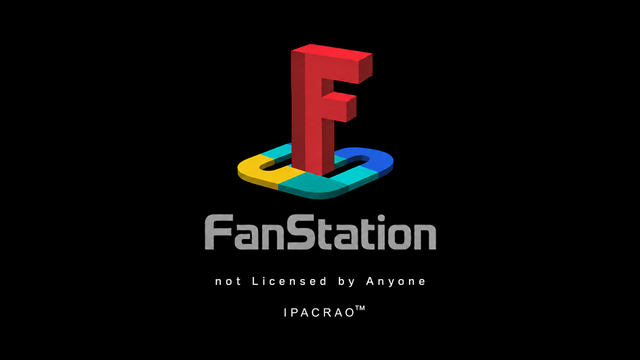
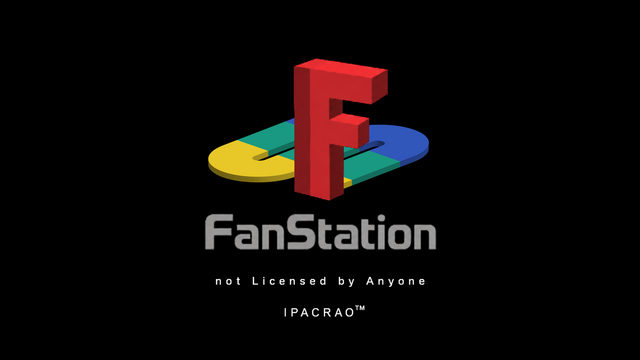
No more pretzels: the FanStation S is drawn by hand
Every image-model pass closed the flat S's loops into a pretzel, so the
shape is no longer left to chance. tools/boot_emblem.py draws it as
exact geometry: a ribbon of three parallel strokes joined by two round
caps, laid flat in a parallel projection with a thin plate edge, then
composited under the red F cut from the first generated card.

The F now stands on the S's front terminal, the way the reference's
letter does: its foot covers one end of the ribbon and its stem hides
the other, so only the two loops show. That placement is computed from
the stroke, slot, and viewing angles, and every dimension is a
key=value knob.

The two abandoned edit briefs are removed; the donor card joins
source/, and the README, knob table, and CLAUDE.md describe the tool.

diff --git a/tools/boot_emblem.py b/tools/boot_emblem.py
@@ -1,0 +1,234 @@
+#!/usr/bin/env python3
+"""FanStation emblem builder for Bent Chrome — the regeneration source for
+assets/boot/source/card_fanstation_src.png. Runs on the repo venv (numpy) and
+needs ImageMagick's `magick` on PATH:
+
+    ./venv312/bin/python tools/boot_emblem.py                 # the shipped look
+    ./venv312/bin/python tools/boot_emblem.py stroke=90 slot=24
+    ./venv312/bin/python tools/boot_emblem.py out=/tmp/try.png half=120
+
+The flat S under the F is drawn here as EXACT GEOMETRY, not generated: image
+models kept closing its loops into a pretzel. It is a ribbon of three
+parallel strokes joined by two round caps (top stroke -> left cap -> middle
+stroke -> right cap -> bottom stroke), laid on the ground in a parallel
+projection and given a thin plate edge. The red F and the lettering come from
+the donor card (the first generated card); the F is cut out by color and set
+back on top.
+
+The F stands on the S's FRONT terminal, the way the reference's letter does:
+its foot covers the bottom stroke's end and its stem hides the top stroke's
+end, so only the two loops show. Every knob is a `key=value` argument; the
+defaults below are what ships. Then run the card recipe in
+assets/boot/README.md to cut the 640x360 card.
+"""
+import math
+import os
+import subprocess
+import sys
+import numpy as np
+
+ROOT = os.path.normpath(os.path.join(os.path.dirname(os.path.abspath(__file__)), ".."))
+SOURCE_DIR = os.path.join(ROOT, "assets", "boot", "source")
+DONOR = os.path.join(SOURCE_DIR, "card_fanstation_donor.png")
+OUT = os.path.join(SOURCE_DIR, "card_fanstation_src.png")
+
+W, H = 1536, 1024
+SS = 4                                  # supersampling per axis
+REGION = (380, 60, 1160, 604)           # emblem area: cleared, then redrawn
+F_BOX = (640, 90, 960, 500)             # where the donor's F lives
+F_FOOT = (746.75, 457.5)                # centre of the F's footprint in the donor
+
+CFG = dict(
+    stroke=82.0,      # ribbon width
+    slot=28.0,        # gap between neighbouring strokes
+    half=100.0,       # the cap centres sit at +-half along the strokes
+    thick=14.0,       # plate edge, screen px
+    ext=8.0,          # how far each terminal runs on under / behind the F
+    scale=1.15,       # scales every S length above
+    fscale=1.15,      # F scale, about its own foot
+    foot=(764.0, 548.0),   # where the F's foot lands on the card
+    ang_d=21.0,       # stroke axis: degrees above horizontal, up-right
+    ang_w=19.0,       # across axis: degrees below horizontal, down-right
+    bands=(-0.34, 0.34),   # color band edges, as a fraction of the S's reach
+)
+TUPLES = ("foot", "bands")
+
+YELLOW = (232, 200, 40)
+TEAL = (26, 153, 130)
+BLUE = (50, 87, 187)
+
+
+def shade(color, k):
+    return tuple(max(0, min(255, int(round(v * k)))) for v in color)
+
+
+class Emblem:
+    def __init__(self, cfg):
+        self.cfg = cfg
+        self.pitch = cfg["stroke"] + cfg["slot"]
+        a_d, a_w = math.radians(cfg["ang_d"]), math.radians(cfg["ang_w"])
+        self.ax_d = np.array([math.cos(a_d), -math.sin(a_d)])
+        self.ax_w = np.array([math.cos(a_w), math.sin(a_w)])
+        # Two pitches further back lands at the same screen x this far along
+        # the strokes: the front terminal sits under the foot at -tuck, the
+        # back terminal hides behind the stem at +tuck.
+        self.tuck = self.pitch * math.cos(a_w) / math.cos(a_d)
+        foot = np.array(cfg["foot"])
+        self.origin = foot - (-self.tuck * self.ax_d + self.pitch * self.ax_w) \
+            - np.array([0.0, cfg["thick"]])
+
+    def screen(self, pt, z=0.0):
+        s = self.origin + pt[0] * self.ax_d - pt[1] * self.ax_w
+        return np.array([s[0], s[1] - z])
+
+    def centerline(self, n_arc=56, n_line=24):
+        p, half = self.pitch, self.cfg["half"]
+        xt = self.tuck + self.cfg["ext"]
+        pts = [(xt + (-half - xt) * i / n_line, p) for i in range(n_line + 1)]
+        for i in range(1, n_arc + 1):  # left cap: top stroke round to the middle
+            a = math.radians(90 + 180 * i / n_arc)
+            pts.append((-half + p / 2 * math.cos(a), p / 2 + p / 2 * math.sin(a)))
+        pts += [(-half + 2 * half * i / n_line, 0.0) for i in range(1, n_line + 1)]
+        for i in range(1, n_arc + 1):  # right cap: middle round to the bottom
+            a = math.radians(90 - 180 * i / n_arc)
+            pts.append((half + p / 2 * math.cos(a), -p / 2 + p / 2 * math.sin(a)))
+        pts += [(half + (-xt - half) * i / n_line, -p) for i in range(1, n_line + 1)]
+        return np.array(pts), half + p / 2 + self.cfg["stroke"] / 2
+
+    def band(self, x, reach):
+        f = x / reach
+        lo, hi = self.cfg["bands"]
+        return YELLOW if f < lo else (TEAL if f < hi else BLUE)
+
+    def faces(self):
+        """(top quads, edge quads far-to-near), each as (screen quad, color)."""
+        cl, reach = self.centerline()
+        tang = np.zeros_like(cl)
+        tang[1:-1] = cl[2:] - cl[:-2]
+        tang[0], tang[-1] = cl[1] - cl[0], cl[-1] - cl[-2]
+        tang /= np.linalg.norm(tang, axis=1)[:, None]
+        norm = np.stack([-tang[:, 1], tang[:, 0]], axis=1)
+        half_w, t = self.cfg["stroke"] / 2, self.cfg["thick"]
+        left, right = cl + norm * half_w, cl - norm * half_w
+        tops, edges = [], []
+
+        def edge(a, b, outward, color):
+            v = outward[0] * self.ax_d - outward[1] * self.ax_w
+            if v[1] <= 0.02:  # faces away from the viewer
+                return
+            k = 0.60 + 0.16 * v[0] / (abs(v[0]) + abs(v[1]) + 1e-9)
+            quad = [self.screen(a, t), self.screen(b, t), self.screen(b), self.screen(a)]
+            edges.append((max(q[1] for q in quad), quad, shade(color, k)))
+
+        for i in range(len(cl) - 1):
+            color = self.band((cl[i][0] + cl[i + 1][0]) / 2, reach)
+            tops.append(([self.screen(left[i], t), self.screen(left[i + 1], t),
+                self.screen(right[i + 1], t), self.screen(right[i], t)], color))
+            mid = (norm[i] + norm[i + 1]) / 2
+            edge(left[i], left[i + 1], mid, color)
+            edge(right[i], right[i + 1], -mid, color)
+        for idx, sign in ((0, -1.0), (len(cl) - 1, 1.0)):  # the two terminals
+            edge(left[idx], right[idx], tang[idx] * sign, self.band(cl[idx][0], reach))
+        edges.sort(key=lambda e: e[0])
+        return tops, [(q, c) for _, q, c in edges]
+
+
+def fill_quad(buf, cover, quad, color):
+    """Fill one convex quad into the supersampled emblem buffer."""
+    x0, y0 = REGION[0], REGION[1]
+    pts = np.array([[(p[0] - x0) * SS, (p[1] - y0) * SS] for p in quad])
+    lo = np.maximum(np.floor(pts.min(axis=0)).astype(int) - 1, 0)
+    hi = np.minimum(np.ceil(pts.max(axis=0)).astype(int) + 1,
+        [buf.shape[1] - 1, buf.shape[0] - 1])
+    if hi[0] < lo[0] or hi[1] < lo[1]:
+        return
+    gx, gy = np.meshgrid(np.arange(lo[0], hi[0] + 1) + 0.5, np.arange(lo[1], hi[1] + 1) + 0.5)
+    pos = np.ones(gx.shape, dtype=bool)
+    neg = np.ones(gx.shape, dtype=bool)
+    for i in range(4):
+        (ax, ay), (bx, by) = pts[i], pts[(i + 1) % 4]
+        cross = (bx - ax) * (gy - ay) - (by - ay) * (gx - ax)
+        pos &= cross >= -0.75  # a hair of overlap: no seams between quads
+        neg &= cross <= 0.75
+    inside = pos | neg
+    buf[lo[1]:hi[1] + 1, lo[0]:hi[0] + 1][inside] = color
+    cover[lo[1]:hi[1] + 1, lo[0]:hi[0] + 1][inside] = 1.0
+
+
+def s_layer(emblem):
+    x0, y0, x1, y1 = REGION
+    rw, rh = (x1 - x0) * SS, (y1 - y0) * SS
+    buf = np.zeros((rh, rw, 3))
+    cover = np.zeros((rh, rw))
+    tops, edges = emblem.faces()
+    for quad, color in edges + tops:  # edges first: top faces sit over them
+        fill_quad(buf, cover, quad, color)
+    small = buf.reshape(rh // SS, SS, rw // SS, SS, 3).mean(axis=(1, 3))
+    alpha = cover.reshape(rh // SS, SS, rw // SS, SS).mean(axis=(1, 3))
+    rgb = np.where(alpha[..., None] > 0, small / np.maximum(alpha[..., None], 1e-6), 0.0)
+    layer = np.zeros((H, W, 4), dtype=np.uint8)
+    layer[y0:y1, x0:x1, :3] = np.clip(rgb, 0, 255).astype(np.uint8)
+    layer[y0:y1, x0:x1, 3] = np.clip(alpha * 255.0, 0, 255).astype(np.uint8)
+    return layer
+
+
+def f_layer(donor):
+    """The donor's F, cut out by color: red, and nothing else up there is."""
+    raw = subprocess.run(["magick", donor, "-alpha", "off", "-depth", "8", "rgb:-"],
+        check=True, capture_output=True).stdout
+    img = np.frombuffer(raw, dtype=np.uint8).reshape(H, W, 3).astype(np.float64)
+    r, g, b = img[..., 0], img[..., 1], img[..., 2]
+    mask = np.zeros((H, W))
+    x0, y0, x1, y1 = F_BOX
+    mask[y0:y1, x0:x1] = ((r > 64) & (g < 0.46 * r) & (b < 0.52 * r))[y0:y1, x0:x1]
+    for _ in range(2):  # soften, then pull the edge in a hair: no color fringe
+        m = mask.copy()
+        m[1:-1, 1:-1] = (mask[:-2, 1:-1] + mask[2:, 1:-1] + mask[1:-1, :-2]
+            + mask[1:-1, 2:] + 4 * mask[1:-1, 1:-1]) / 8.0
+        mask = m
+    alpha = np.clip((mask - 0.45) / 0.35, 0.0, 1.0)
+    return np.dstack([img, alpha * 255.0]).astype(np.uint8)
+
+
+def write_rgba(layer, path):
+    subprocess.run(["magick", "-size", "%dx%d" % (W, H), "-depth", "8", "rgba:-", path],
+        input=layer.tobytes(), check=True)
+
+
+def main(argv):
+    cfg = dict(CFG)
+    donor, out = DONOR, OUT
+    for arg in argv:
+        key, _, value = arg.partition("=")
+        if key == "donor":
+            donor = value
+        elif key == "out":
+            out = value
+        elif key in TUPLES:
+            cfg[key] = tuple(float(v) for v in value.split(","))
+        elif key in cfg:
+            cfg[key] = float(value)
+        else:
+            print("unknown knob: %s\nknobs: %s, donor, out" % (key, ", ".join(cfg)))
+            return 1
+    for key in ("stroke", "slot", "half", "thick", "ext"):
+        cfg[key] *= cfg["scale"]
+    tmp = os.path.dirname(os.path.abspath(out))
+    s_png, f_png = os.path.join(tmp, "_emblem_s.png"), os.path.join(tmp, "_emblem_f.png")
+    write_rgba(s_layer(Emblem(cfg)), s_png)
+    write_rgba(f_layer(donor), f_png)
+    subprocess.run(["magick", donor, "-alpha", "off", "-fill", "black",
+        "-draw", "rectangle %d,%d %d,%d" % REGION, s_png, "-composite",
+        "(", f_png, "-background", "none", "-virtual-pixel", "transparent",
+        "-filter", "Lanczos", "-distort", "SRT", "%.2f,%.2f %.4f 0 %.2f,%.2f" % (
+            F_FOOT[0], F_FOOT[1], cfg["fscale"], cfg["foot"][0], cfg["foot"][1]), ")",
+        "-composite", "-background", "black", "-alpha", "remove", "-alpha", "off",
+        "PNG24:" + out], check=True)
+    os.remove(s_png)
+    os.remove(f_png)
+    print("wrote %s" % out)
+    return 0
+
+
+if __name__ == "__main__":
+    raise SystemExit(main(sys.argv[1:]))

diff --git a/CLAUDE.md b/CLAUDE.md
@@ -87,7 +87,7 @@ This file guides Claude Code (claude.ai/code) when working in this repository.
 
 Interstitial (`ui/interstitial.gd`) between levels — full-screen loading-card art (`assets/img/cards/`, keyed by SCENE FILENAME in `CARDS` so reorders can't mismatch; blocky-panel fallback when absent), the shared `level_X.png` sawhorse card for `placeholder` slots (UNDER CONSTRUCTION caption; any key advances `level_index` +1 and re-enters, so consecutive placeholders chain), the STAY/DETOUR chooser for entries authored `optional: true` (Route 666), and boss banner cards before Lackey's Arena (Lackey) and Goliath's Arena (Goliath) keyed on scene filename, `assets/img/bios/<name>.png` with graceful fallback; title screen (`ui/title.gd`) is a SINGLE PLAYER/MULTIPLAYER/STORY/SETTINGS/QUIT GAME menu (QUIT GAME or ESC/START pops the same quit confirm — "Awww, giving up so soon?", NO default). SINGLE PLAYER opens the **mode select** (`ui/mode_select.gd` — DRIVER'S ED / ROAD TRIP / SINGLE BATTLE / BACK; DRIVER'S ED pops the sign-up dialog: FIRST TIME DRIVER = `game_mode &"tutorial"`, JUST HERE FOR A TEST DRIVE = `&"test_drive"`, or BACK, with both drive choices skipping difficulty straight to car select which then launches `SceneFlow.to_tutorial()`; ROAD TRIP stamps `&"campaign"` and continues to difficulty; SINGLE BATTLE stamps `&"single_battle"` and runs difficulty → **level select** (`ui/level_select.gd`, the fight card: melee arenas selectable in tour order, placeholder slots greyed + cursor-hopped, boss/chase slots off-card; a pick stamps `GameState.battle_level_index`, run state) → car select, which launches `to_level(battle_level_index)` — the end screen's campaign fork and Restart are `game_mode`-gated, so a single-battle win shows the classic panel and Restart re-runs the slot with fresh lives. `GameState.game_mode` is run state, re-stamped on every confirm, never persisted; car select's ESC is mode-aware — mode select for tutorial lanes, the fight card for single battle, difficulty for campaign). ROAD TRIP opens the **difficulty select** (`ui/difficulty_select.gd` — LEARNER'S PERMIT / ROAD RAGING COMMUTER / REVOKED LICENSE / BACK, cursor on the current tier, BACK or ESC steps to mode select, car select's ESC comes back here) before car select; the tier lives as a static on `game/difficulty.gd` (dependency-free leaf — combat.gd preloads it), fixed for the whole run (end-screen Restart keeps it, Quit to Title re-picks). **HARD = today's game, every knob ×1.0, test-locked** (`tests/test_difficulty.gd`); easier tiers are multipliers read at use sites only — player damage taken (Combat.scale, all five paths), AI fire cooldowns (mount push + boss turrets), Lackey's valve, Goliath's pools and charge spacing; knob table in docs/matrices.md "Difficulty". (STORY = story art + placeholder copy; SETTINGS = `ui/settings.gd`: a GRAPHICS modal (combat/overview zoom, look-ahead enable/distance, screen shake, boot intro), an AUDIO modal (Master/Music/SFX volume), and a DEVELOPER OPTIONS modal — persisted to `user://settings.json` via `GameState.save_settings()`. Inside the modal, Developer Mode is the master breaker for DEVGOD: the raw choice remains persisted and visible while off, but `GameState.is_devgod_enabled()` makes it inert; locked rows are skipped. The old START LEVEL picker is retired — jumping to a level is SINGLE BATTLE's job now; a stale `start_level_index` in settings.json loads as a silent no-op. Dev mode's old `--dev` flag is retired.) Dev mode tools: F1 handling dashboard, **F2 tuning editor** (`ui/tuning_editor.gd` over `game/tuning_deck.gd` — live weapon-def/terrain/combat knobs, overrides boot-applied from `user://tuning.json`, Export writes `user://tuning_export.json` to hand back for folding into base). DEVGOD: player damage-immune (`Health.god`), one of every weapon with no depletion (`WeaponRack.god` + `arm_all_once`); pits still kill but cost no life. The arena radar is sensor-bounded (2200px base) for everyone independent of this toggle. **DEVGOD is inert during Driver's Ed LESSONS** (`is_devgod_enabled()` gates on `game_mode != &"tutorial"` — god mode makes action-graded lessons uncompletable: no ammo depletion, no dents to repair); the test-drive lane keeps it — that's the bench. Car select launches Road Trip runs into slot 1 (Arena Assault's sawhorse card rolls straight into Piers) and Single Battle runs into the picked slot; player has **3 lives** per campaign (respawn at start with 2s shield; full-wipe restart). The two placeholder slots (Terminal Terror, Slaughter on the Strip) are the named future levels — each graduates in place by swapping its CAMPAIGN entry to the real scene with `optional: true` while in test (Arena Assault and Capital City Carnage did exactly this); Goliath's Arena stays the finale.
 
-**Boot sequence** (`ui/boot_splash.tscn` — the `run/main_scene`, `SceneFlow.BOOT`): two parody startup cards ahead of the title — white **FONY** / COMPUTER ENTERTAINMENT, then black **FanStation** / "not Licensed by Anyone" / IPACRAO (the acronym is never spelled out) — crossing through black on a Tween-driven curtain under one original 14.5s sting. Copy and order are test-locked through the `CARDS` table (`tests/test_boot_splash.gd`). Everything is drop-in under `assets/boot/` (its README holds the art briefs, regeneration commands, and cue table): absent art falls back to the card's text lines on its matte, an absent sting runs silent; art letterboxes over a same-color matte, so mattes must be PURE white/black. Cards ship at 640×360 and upscale through a linear filter — soft on purpose. The sting is a **scene-owned** player on the SFX bus (a skip has to fade it — deliberately NOT an AudioDirector event), rendered by `tools/synth_boot.py`, whose cue points mirror `TIMING` in `boot_splash.gd` — move them together. `MusicDirector.TRACKS` maps the scene to the `SILENT` sentinel, so the title's `bgm_menu` starts from the top. Any key/button/click skips after `INPUT_LOCK` 0.5s (the press is consumed — the title never sees it); Settings → Graphics → **BOOT INTRO** (`GameState.boot_intro`, persisted) turns the cards off; headless runs hand straight to the title, so smoke's boot stage still cold-boots it. The engine's own splash is blacked out in project.godot so nothing precedes the cards. Only a launch plays them — returning to the title never does. Knob table: docs/matrices.md "Boot sequence".
+**Boot sequence** (`ui/boot_splash.tscn` — the `run/main_scene`, `SceneFlow.BOOT`): two parody startup cards ahead of the title — white **FONY** / COMPUTER ENTERTAINMENT, then black **FanStation** / "not Licensed by Anyone" / IPACRAO (the acronym is never spelled out) — crossing through black on a Tween-driven curtain under one original 14.5s sting. Copy and order are test-locked through the `CARDS` table (`tests/test_boot_splash.gd`). Everything is drop-in under `assets/boot/` (its README holds the art briefs, regeneration commands, and cue table): absent art falls back to the card's text lines on its matte, an absent sting runs silent; art letterboxes over a same-color matte, so mattes must be PURE white/black. Cards ship at 640×360 and upscale through a linear filter — soft on purpose. The FanStation emblem's flat S is DRAWN, not generated (`tools/boot_emblem.py` — exact ribbon geometry composited under the donor card's F; image models kept closing its loops into a pretzel), so reshape it by knob, never by prompt. The sting is a **scene-owned** player on the SFX bus (a skip has to fade it — deliberately NOT an AudioDirector event), rendered by `tools/synth_boot.py`, whose cue points mirror `TIMING` in `boot_splash.gd` — move them together. `MusicDirector.TRACKS` maps the scene to the `SILENT` sentinel, so the title's `bgm_menu` starts from the top. Any key/button/click skips after `INPUT_LOCK` 0.5s (the press is consumed — the title never sees it); Settings → Graphics → **BOOT INTRO** (`GameState.boot_intro`, persisted) turns the cards off; headless runs hand straight to the title, so smoke's boot stage still cold-boots it. The engine's own splash is blacked out in project.godot so nothing precedes the cards. Only a launch plays them — returning to the title never does. Knob table: docs/matrices.md "Boot sequence".
 
 **Settings input contract:** `ui/settings.gd` consumes raw physical keyboard arrows and Escape, never the shared gameplay/menu actions. Up/Down selects, Left/Right changes value rows, Right alone enters `submenu`/`action` rows, and Escape closes the nested dialog before returning to title. WASD, Enter, Space, controller axes/buttons, and mouse clicks are ignored on this screen; real setting changes autosave immediately. New Settings submenus declare their row kind and inherit this contract.
 

diff --git a/assets/boot/README.md b/assets/boot/README.md
@@ -10,7 +10,7 @@ text lines on the matte, a sting without a file runs silent.
 | `card_fony.png` | card 1, white matte: `FONY` / F diamond / `COMPUTER ENTERTAINMENT ™` |
 | `card_fanstation.png` | card 2, black matte: F-on-S emblem / `FanStation` / `not Licensed by Anyone` / `IPACRAO™` |
 | `boot_sting.ogg` | the one sound under both cards, 14.5s stereo one-shot |
-| `source/` | full-size generated art + the briefs that made it (`.gdignore`d — never imported, never shipped) |
+| `source/` | full-size art, the briefs that made it, and the FanStation donor card (`.gdignore`d — never imported, never shipped) |
 
 The acronym is never spelled out anywhere in the game.
 
@@ -53,10 +53,7 @@ emblem its breathing room; the final `-resize` is the softness knob.
 To repair one detail of a card that is otherwise right, EDIT it instead of
 rerolling: attach the source art and name the single change plus everything
 that must stay. `source/brief_fony_fix.md` is the pass that squared up the
-diamond's right point; `source/brief_fanstation_fix_pass1.md` then `_pass2.md`
-are the two passes that turned the FanStation base into a slim ribbon S
-(pass 2 edits the result of pass 1). Those passes also attached a reference
-screenshot as a shape guide for the S only; it is not kept in the repo.
+diamond's right point:
 
     codex exec --skip-git-repo-check -s workspace-write \
         -i source/card_fony_src.png < source/brief_fony_fix.md
@@ -64,6 +61,31 @@ screenshot as a shape guide for the S only; it is not kept in the repo.
 Editing needs a Codex build whose sandbox can read the attachment. Keep
 emblem geometry clean in briefs: an art-directed "dent" on the diamond read
 as a rendering glitch, not a joke, and was removed.
+
+## The FanStation emblem is drawn, not generated
+
+Image models could not hold the flat S: every pass closed its loops into a
+pretzel. So `tools/boot_emblem.py` draws it as exact geometry — a ribbon of
+three parallel strokes joined by two round caps, laid flat in a parallel
+projection with a thin plate edge — and composites the card:
+
+    ./venv312/bin/python tools/boot_emblem.py            # writes source/card_fanstation_src.png
+    ./venv312/bin/python tools/boot_emblem.py stroke=90 out=/tmp/try.png
+
+- `source/card_fanstation_donor.png` (the first generated card) donates the
+  red F, cut out by color, and the lettering. Its own base is discarded.
+- The F stands on the S's FRONT terminal, the way the reference's letter
+  does: the foot covers the bottom stroke's end and the stem hides the top
+  stroke's end, so only the two loops show. That placement is computed, not
+  hand-set — change `stroke`, `slot`, or the angles and it follows.
+- Knobs are `key=value` arguments (table in docs/matrices.md "Boot
+  sequence"); the defaults are what ships. Then run the `magick` card recipe
+  above.
+- A new donor with the F somewhere else needs `F_BOX` and `F_FOOT`
+  re-measured at the top of the tool.
+- To polish a drawn card with an image model, hand it the drawn card as the
+  edit target and declare the shape final; with an exact guide it holds the
+  silhouette.
 
 ## Regenerating the sting
 

diff --git a/assets/boot/source/brief_fanstation.md b/assets/boot/source/brief_fanstation.md
@@ -7,7 +7,7 @@ Attached image: role = layout and mood reference ONLY. Match its overall arrange
 Canvas: landscape 3:2. Pure flat black background (#000000) edge to edge. No vignette, no glow haze, no stars, no border, no frame.
 
 Layout (everything horizontally centered, generous empty margins):
-1. Upper middle: the emblem. A tall capital letter "F" built as a thick red upright slab with visible side thickness in darker red, standing on a capital letter "S" that lies flat on the ground plane in perspective. The S is ONE continuous slim ribbon of constant width and thin plate thickness, strongly foreshortened, curling into a left loop and a right loop that each wrap a long narrow slot; its width on screen is about twice the width of the F. Flat color bands cut straight across the ribbon: yellow on the left loop, teal-green and cyan through the middle, blue on the right loop. No thick slabs, no detached pieces, no ring or pedestal shape. Flat-shaded, low-polygon, early 3D computer-graphics look from the mid 1990s. The F must clearly be an F: one vertical stem with TWO horizontal arms pointing right, the top arm longer and the middle arm shorter, and NO closed bowl or loop anywhere.
+1. Upper middle: the emblem. A tall capital letter "F" built as a thick red upright slab with visible side thickness in darker red, standing on a plain flat multicolored base (yellow, teal-green, blue). The base is a placeholder: tools/boot_emblem.py replaces it with an exactly drawn S, so keep it simple and keep it clear of the F above the foot. Flat-shaded, low-polygon, early 3D computer-graphics look from the mid 1990s. The F must clearly be an F: one vertical stem with TWO horizontal arms pointing right, the top arm longer and the middle arm shorter, and NO closed bowl or loop anywhere.
 2. Below the emblem: the wordmark "FanStation" in mid-grey, a rounded geometric sans-serif. Capital F, lowercase a-n, capital S, lowercase t-a-t-i-o-n.
 3. Below the wordmark: a small legal block in white, wide-tracked sans-serif, slightly crunchy like a console BIOS font, centered:
    line 1: "not Licensed by Anyone"

diff --git a/docs/matrices.md b/docs/matrices.md
@@ -604,3 +604,11 @@ Sources: `ui/boot_splash.gd` static vars (the `run/main_scene`); sting recipe in
 | `DUR` / `SWELL_TOP` / `ARRIVE` / `CHIMES` / `LAST_CHIME` / `FADE_FROM` | 14.5 / 6.4 / 7.4 / 7.6 / 11.9 / 13.2 s | tools/synth_boot.py | sting cue points — mirror `TIMING`, move them together |
 | `BEND` | -1.6 semitones | tools/synth_boot.py | how far the last chime sags (the knockoff tell); 0 or `--no-bend` plays it straight |
 | `PEAK_DB` | -1 dBFS | tools/synth_boot.py | sting peak ceiling |
+| `stroke` / `slot` | 82 / 28 px | tools/boot_emblem.py | FanStation S: ribbon width / gap between strokes (before `scale`) |
+| `half` | 100 px | tools/boot_emblem.py | cap centres sit at +-half along the strokes: loop length |
+| `thick` | 14 px | tools/boot_emblem.py | plate edge height |
+| `scale` / `fscale` | 1.15 / 1.15 | tools/boot_emblem.py | S size / F size about its own foot |
+| `foot` | 764,548 | tools/boot_emblem.py | where the F's foot lands on the 1536x1024 card; the S follows it |
+| `ang_d` / `ang_w` | 21 / 19 deg | tools/boot_emblem.py | stroke axis above horizontal / across axis below it: the viewing angle |
+| `bands` | -0.34, 0.34 | tools/boot_emblem.py | yellow-teal and teal-blue edges, as a fraction of the S's reach |
+| `ext` | 8 px | tools/boot_emblem.py | how far each hidden terminal runs on under / behind the F |
